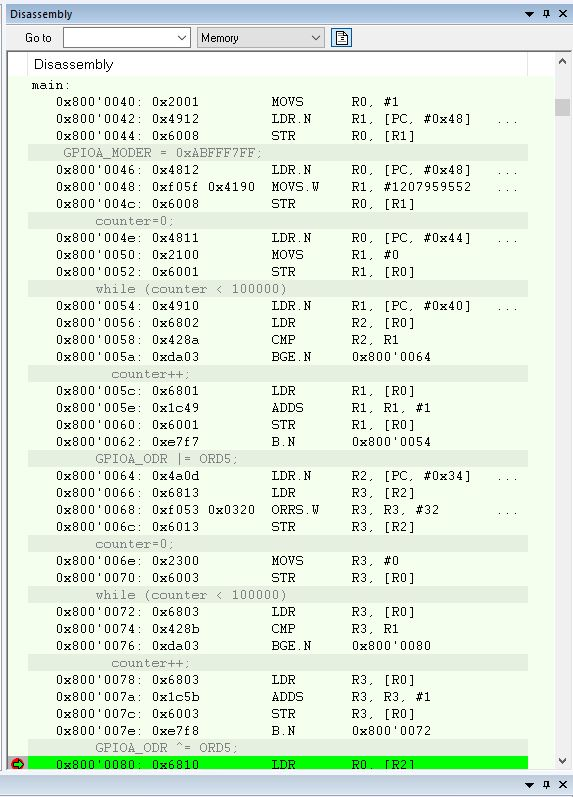
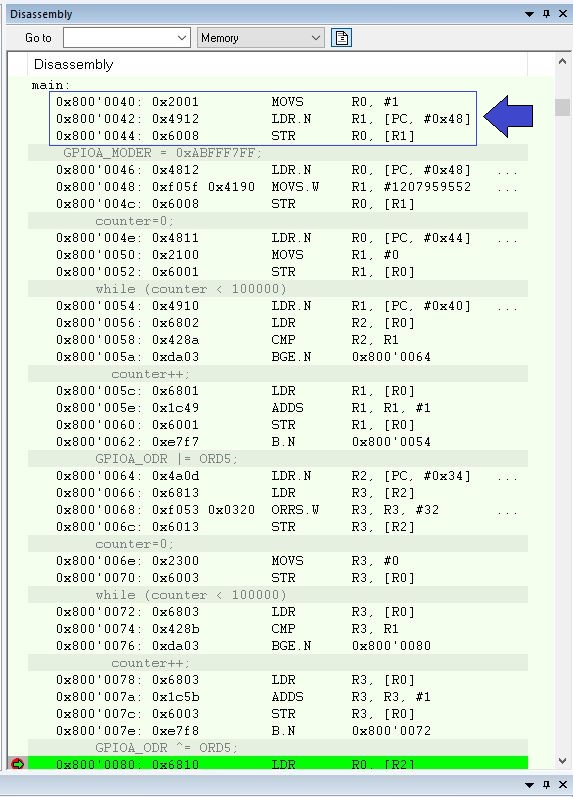
Add files via upload

diff --git a/assignment04/00-Problems.md b/assignment04/00-Problems.md
@@ -1,0 +1,135 @@
+
+
+Problems:
+
+1. Follow the same steps as we did in the class to blink LED1 (PA5) at a visible rate using the bit-band region to enable the clock to Port A, then answer the following:
+
+	// RCC_AHB2ENR bit-banding
+
+	// bit_word_addr = bit_band_base + (byte_offset*32) + (bit_number*4)
+
+	#define bit_band_base 0x42000000
+
+	#define byte_offset 0x2104C
+
+	#define bit_number 0 //bit number for GPIOA PA5 LED1
+
+	#define RCC_AHB2ENR (*((unsigned int*)(bit_band_base + (byte_offset*0x20) + (bit_number*0x4))))
+
+	#define GPIOA_BASE 0x48000000
+
+	#define GPIOA_MODER (*((unsigned int*)(GPIOA_BASE + 0x00)))
+
+	#define GPIOA_ODR (*((unsigned int*)(GPIOA_BASE + 0x14)))
+
+	volatile int counter=0;
+	
+	#define ORD5 0x20
+
+	void main(void)
+
+	{
+
+	// Set bit[1] to 1
+
+	// 1. Enable clock to Peripheral
+
+	// Value 0x1 to enable GPIOA
+  
+	// *** Using RCC_AHB2ENR aliasing bit-banding ***
+
+	RCC_AHB2ENR = 0x1;
+
+	...
+
+a) What instructions does the compiler produce in assembly for “writing” to the RCC_AHB2ENR (correction, not "GPIO") bit when using bit-band address?
+
+Instructions in disassembly figures below. Blue box after immediately after main is when RCC_AHB2ENR is invoked. Note, in red, we have "0x4242'0980" with bit-banding and "RCC_AHB2ENR" without bit-banding in the instructions.
+
+![Disassembly screenshot](https://github.com/vigoren-uw/embsys310/blob/main/assignment04/gpioa_WITH_bitbanding1.JPG)
+![Disassembly screenshot](https://github.com/vigoren-uw/embsys310/blob/main/assignment04/gpioa_WITH_bitbanding2.JPG)
+
+b) What were the instructions produced when writing to the RCC_AHB2ENR (correction, not "GPIOx_ODR") without using bit-banding?
+
+Instructions in disassembly figures below. Blue box after immediately after main is when RCC_AHB2ENR is invoked. Note, in red, we have "0x4242'0980" with bit-banding and "RCC_AHB2ENR" without bit-banding in the instructions.
+
+![Disassembly screenshot](https://github.com/vigoren-uw/embsys310/blob/main/assignment04/gpioa_NO_bitbanding1.JPG)
+![Disassembly screenshot](https://github.com/vigoren-uw/embsys310/blob/main/assignment04/gpioa_NO_bitbanding2.JPG)
+
+
+2. Create a function “func1” with 5 arguments and call “func1” from within another function “func2”. Trace thru the assembler and note:
+	
+	// fucntion declarations
+ 	
+	int func2(void);
+	
+	int func1(int var0, int var1, int var2, int var3, int var4);
+	
+	void main(void)
+	
+	{
+	
+	  int variable = func2();
+	
+	  return;
+	
+	}
+
+	// function sums five arguments and returns sum
+	
+	int func1(int var0, int var1, int var2, int var3, int var4)
+	
+	{
+	
+ 	 int sum = var0 + var1 + var2 + var3 + var4;
+ 	
+	 return sum;
+	
+	}
+	
+	// function calls func1 sum function, divides by 2 and returns value
+	
+	int func2(void)
+	
+	{
+	
+	int mvar1 = 1;
+	
+	int mvar2 = 1;
+	
+	int mvar3 = 1;
+	
+	int mvar4 = 1;
+	
+	int mvar5 = 1;
+	
+	int div5 = func1(mvar1, mvar2, mvar3, mvar4, mvar5)/5;
+	
+	return div5;
+	
+	}
+
+a. How does the calling function “func2” pass the values to the called function “func1”?
+
+Through registers as shown in figure below
+
+![Disassembly screenshot](https://github.com/vigoren-uw/embsys310/blob/main/assignment04/func1_func2_a.jpg)
+
+b. What extra code did the compiler generate before calling the function “func1” with the multiple arguments?
+
+There is an addition of stack pointer referene as shown in figure below
+
+![Disassembly screenshot](https://github.com/vigoren-uw/embsys310/blob/main/assignment04/func1_func2_b.jpg)
+
+c. What extra code did the compiler generate inside the called function “funct1” with the multiple list of arguments?
+
+There is an addition of a push and stack pointer referene as shown in figure below
+
+![Disassembly screenshot](https://github.com/vigoren-uw/embsys310/blob/main/assignment04/func1_func2_c.jpg)
+
+d. Any other observations?
+
+None I could identify. 
+
+
+
